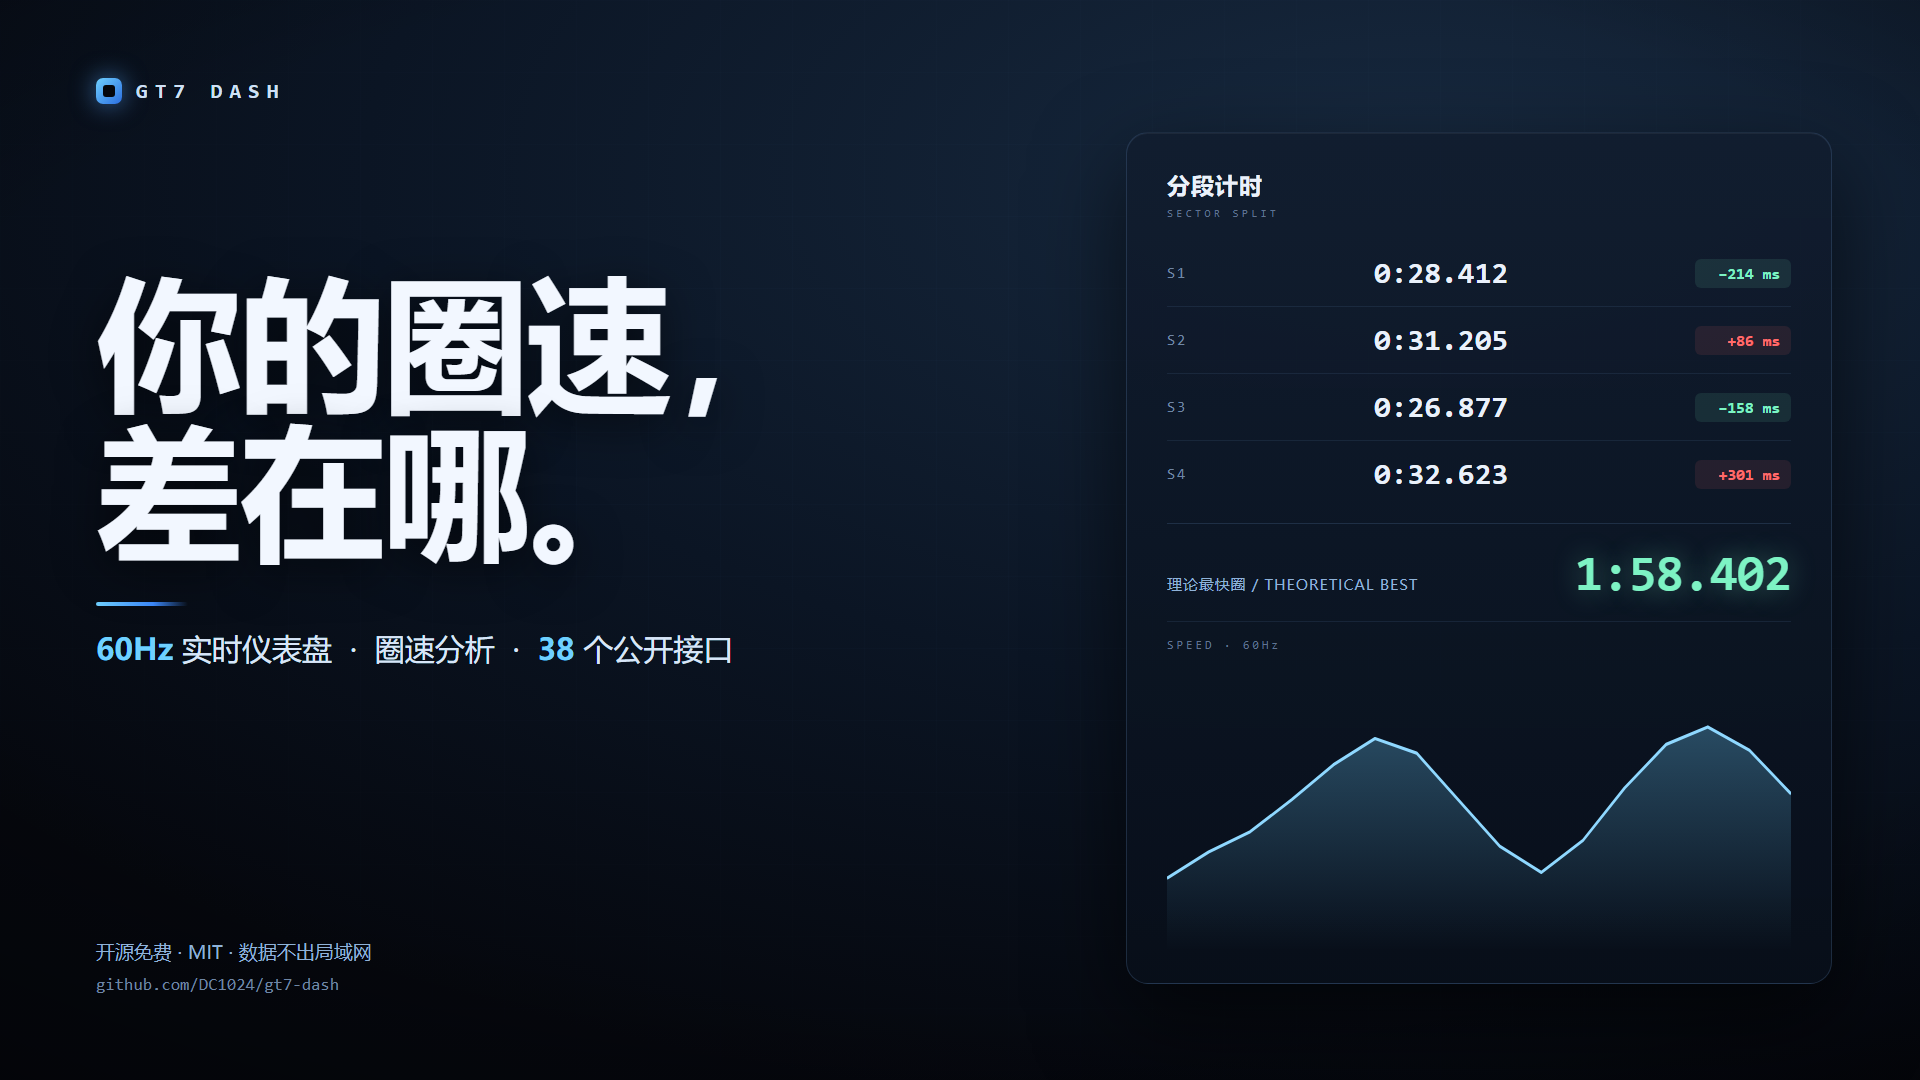
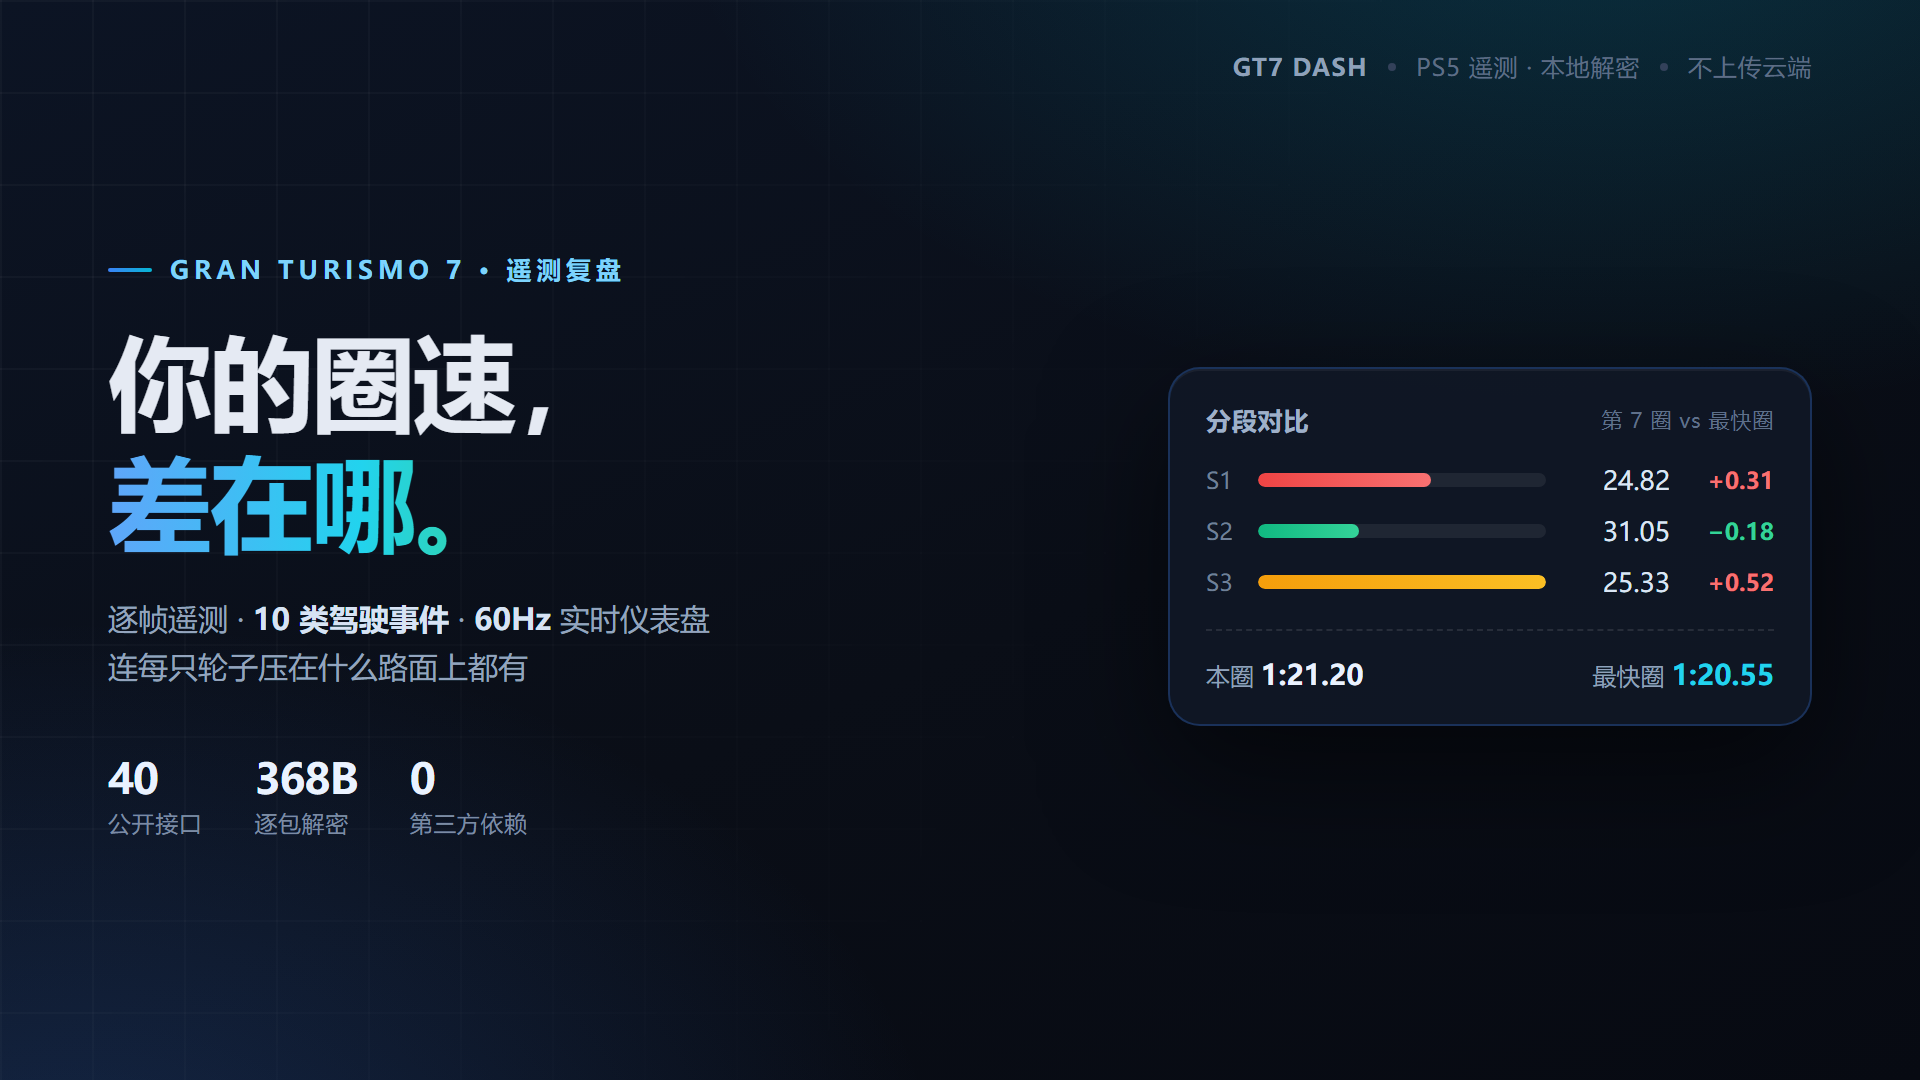
docs(promo): 重做宣传封面 —— 旧图里烤死的「38 个公开接口」已经过期
封面是 PNG，文案烤在像素里，功能一变数字就改不了（这次就是 38 → 40）。
所以这次连**源文件一起**提交：`docs/cover.html`，改一行文案重新渲染即可。

渲染命令写在文件头的注释里：
  chrome --headless=new --hide-scrollbars --window-size=960,540 \
    --force-device-scale-factor=2 --screenshot=docs/cover.png docs/cover.html
960×540 的 CSS 尺寸 + 2 倍缩放 = 1920×1080（视频封面标准），
`--hide-scrollbars` 不能省，否则右侧多 15px 滚动条、比例就歪了。

内容上改了三处：
· 数字改成 40 个公开接口 / 368B 逐包解密 / 10 类驾驶事件
· 分段条的宽度改成**∝ 丢了多少时间**（不是时长）—— 标题问的是"差在哪"，
  条形就该回答"哪一段丢得最多"，S3 +0.52 最长，一眼看到
· 数字自洽：24.82+31.05+25.33 = 1:21.20，差值合计 +0.65 → 最快圈 1:20.55

品牌行从**左下角挪到右上角**：这张图在宣传页里当视频封面用时，左下会叠一行
「你的圈速，差在哪 + 62 秒」的说明，放左下会撞在一起。

顺带给宣传页补了 og:image / twitter:card —— 之前分享出去是没有预览图的，
现在直接用这张封面。

diff --git a/docs/cover.html b/docs/cover.html
@@ -1,0 +1,149 @@
+<!DOCTYPE html>
+<!--
+  宣传视频封面 / 社交预览图的**源文件**。
+
+  为什么留 HTML 而不是直接改 PNG：封面里有文案（"40 个公开接口"这类），
+  功能一变数字就过期，而图片里的字改不了。留个源文件，改一行重新渲染即可。
+
+  渲染（Windows，Chrome/Chromium 任选）：
+    chrome --headless=new --disable-gpu --hide-scrollbars \
+      --window-size=960,540 --force-device-scale-factor=2 \
+      --screenshot=docs/cover.png docs/cover.html
+
+  · 960×540 的 CSS 尺寸 + 2 倍缩放 = 输出 1920×1080（视频封面标准）
+  · 必须 --hide-scrollbars，否则右侧会多 15px 滚动条、比例就不对了
+-->
+<html lang="zh-CN">
+<head>
+<meta charset="utf-8">
+<style>
+  * { margin:0; padding:0; box-sizing:border-box; }
+  html, body { width:960px; height:540px; overflow:hidden; }
+  body { background:#0a0e17; color:#e5eaf3;
+    font-family:system-ui,-apple-system,'Segoe UI','PingFang SC','Microsoft YaHei',sans-serif;
+    -webkit-font-smoothing:antialiased; }
+
+  .stage { position:relative; width:960px; height:540px; display:flex;
+    gap:34px; padding:52px 54px 46px;
+    background:
+      radial-gradient(760px 440px at 84% -12%, rgba(6,182,212,.20), transparent 62%),
+      radial-gradient(680px 460px at 4% 112%, rgba(59,130,246,.22), transparent 64%),
+      linear-gradient(158deg, #0c1424 0%, #0a0e17 56%, #070a12 100%); }
+  /* 细网格：只铺左半边，做个"数据"的底纹，不抢主体 */
+  .stage::before { content:''; position:absolute; inset:0;
+    background-image:
+      linear-gradient(rgba(255,255,255,.030) 1px, transparent 1px),
+      linear-gradient(90deg, rgba(255,255,255,.030) 1px, transparent 1px);
+    background-size:46px 46px;
+    -webkit-mask-image:linear-gradient(118deg, #000 8%, transparent 66%);
+    mask-image:linear-gradient(118deg, #000 8%, transparent 66%); }
+
+  .left { position:relative; flex:1 1 auto; width:512px;
+    display:flex; flex-direction:column; justify-content:center; }
+
+  .kicker { display:flex; align-items:center; gap:9px;
+    font-size:12.5px; letter-spacing:2.4px; color:#7dd3fc; font-weight:600; }
+  .kicker i { width:22px; height:2px; background:linear-gradient(90deg,#3b82f6,#06b6d4);
+    border-radius:2px; }
+
+  h1 { font-size:52px; line-height:1.16; letter-spacing:-1.2px; margin-top:18px;
+    font-weight:800; }
+  h1 em { font-style:normal;
+    background:linear-gradient(92deg,#60a5fa,#22d3ee 62%,#34d399);
+    -webkit-background-clip:text; background-clip:text; color:transparent; }
+
+  .sub { margin-top:16px; font-size:15px; line-height:1.6; color:#93a4bd; }
+  .sub b { color:#d7e3f4; font-weight:600; }
+
+  .stats { display:flex; gap:26px; margin-top:30px; }
+  .stats div { font-size:11.5px; color:#7c8ba3; letter-spacing:.3px; }
+  .stats b { display:block; font-size:21px; color:#eaf2ff; font-weight:700;
+    letter-spacing:-.4px; margin-bottom:2px;
+    font-variant-numeric:tabular-nums; }
+
+  /* 右侧：分段对比卡 */
+  .card { position:relative; width:322px; flex:0 0 322px; align-self:center;
+    background:rgba(17,24,39,.82); border:1px solid rgba(59,130,246,.26);
+    border-radius:16px; padding:18px 18px 16px;
+    box-shadow:0 22px 60px rgba(0,0,0,.55), inset 0 1px 0 rgba(255,255,255,.05); }
+  .card h2 { font-size:12.5px; font-weight:600; color:#9fb0c8; letter-spacing:.4px;
+    display:flex; justify-content:space-between; align-items:center; }
+  .card h2 span { font-size:10.5px; color:#5f708a; font-weight:500; }
+
+  .rows { margin-top:14px; display:flex; flex-direction:column; gap:9px; }
+  .row { display:grid; grid-template-columns:26px 1fr 62px 52px; align-items:center;
+    font-size:13px; font-variant-numeric:tabular-nums; }
+  .row .n { color:#6f8098; font-size:11.5px; }
+  .bar { height:7px; border-radius:4px; background:rgba(255,255,255,.07); overflow:hidden; }
+  .bar i { display:block; height:100%; border-radius:4px; }
+  .row .t { text-align:right; color:#dbe6f5; }
+  .row .d { text-align:right; font-size:11.5px; font-weight:700; }
+  .d.bad { color:#f87171; } .d.good { color:#34d399; }
+
+  .sum { margin-top:15px; padding-top:13px; border-top:1px dashed rgba(255,255,255,.10);
+    display:flex; justify-content:space-between; font-size:12px; color:#8fa1ba; }
+  .sum b { color:#eaf2ff; font-variant-numeric:tabular-nums; font-size:14px; }
+  .sum .ideal b { color:#22d3ee; }
+
+  /* 品牌行放**右上角**：宣传页把这张图当视频封面用时，左下角会叠一行
+     「你的圈速，差在哪 + 62 秒」的说明，放左下会撞在一起。 */
+  .foot { position:absolute; right:54px; top:26px; display:flex;
+    align-items:center; gap:10px; font-size:12px; color:#5d6d85; letter-spacing:.4px; }
+  .foot b { color:#8fa1ba; font-weight:700; letter-spacing:.6px; }
+  .dot { width:4px; height:4px; border-radius:50%; background:#33415a; }
+</style>
+</head>
+<body>
+<div class="stage">
+
+  <div class="left">
+    <div class="kicker"><i></i>GRAN TURISMO 7 · 遥测复盘</div>
+
+    <h1>你的圈速，<br><em>差在哪。</em></h1>
+
+    <p class="sub">
+      逐帧遥测 · <b>10 类驾驶事件</b> · <b>60Hz</b> 实时仪表盘<br>
+      连每只轮子压在什么路面上都有
+    </p>
+
+    <div class="stats">
+      <div><b>40</b>公开接口</div>
+      <div><b>368B</b>逐包解密</div>
+      <div><b>0</b>第三方依赖</div>
+    </div>
+  </div>
+
+  <div class="card">
+    <h2>分段对比 <span>第 7 圈 vs 最快圈</span></h2>
+
+    <div class="rows">
+      <div class="row">
+        <span class="n">S1</span>
+        <div class="bar"><i style="width:60%;background:linear-gradient(90deg,#ef4444,#f87171)"></i></div>
+        <span class="t">24.82</span><span class="d bad">+0.31</span>
+      </div>
+      <div class="row">
+        <span class="n">S2</span>
+        <div class="bar"><i style="width:35%;background:linear-gradient(90deg,#10b981,#34d399)"></i></div>
+        <span class="t">31.05</span><span class="d good">−0.18</span>
+      </div>
+      <div class="row">
+        <span class="n">S3</span>
+        <div class="bar"><i style="width:100%;background:linear-gradient(90deg,#f59e0b,#fbbf24)"></i></div>
+        <span class="t">25.33</span><span class="d bad">+0.52</span>
+      </div>
+    </div>
+
+    <div class="sum">
+      <span>本圈 <b>1:21.20</b></span>
+      <span class="ideal">最快圈 <b>1:20.55</b></span>
+    </div>
+  </div>
+
+  <div class="foot">
+    <b>GT7 DASH</b><span class="dot"></span>PS5 遥测 · 本地解密<span class="dot"></span>不上传云端
+  </div>
+
+</div>
+</body>
+</html>

diff --git a/docs/index.html b/docs/index.html
@@ -4,6 +4,13 @@
 <meta charset="UTF-8">
 <meta name="viewport" content="width=device-width, initial-scale=1">
 <title>GT7 Dash — 跑车浪漫旅7 实时遥测仪表盘</title>
+<!-- 社交分享预览：cover.png 就是上面那张宣传视频封面 -->
+<meta name="description" content="PS5《GT7》官方 UDP 遥测 → 本地 Salsa20 解密 → Web 实时仪表盘 + 公开数据 API。60Hz、零第三方依赖、数据全部本地处理。">
+<meta property="og:type" content="website">
+<meta property="og:title" content="GT7 Dash — 把 GT7 的遥测数据装进你自己的仪表盘">
+<meta property="og:description" content="逐帧遥测 · 10 类驾驶事件 · 40 个公开 API 端点 · 连每只轮子压在什么路面上都有。">
+<meta property="og:image" content="https://dc1024.github.io/gt7-dash/cover.png">
+<meta name="twitter:card" content="summary_large_image">
 <style>
   :root { --bg:#0a0e17; --card:#111827; --line:#1f2a3d; --accent:#3b82f6;
     --accent2:#06b6d4; --text:#e5eaf3; --muted:#8b98ad; }
